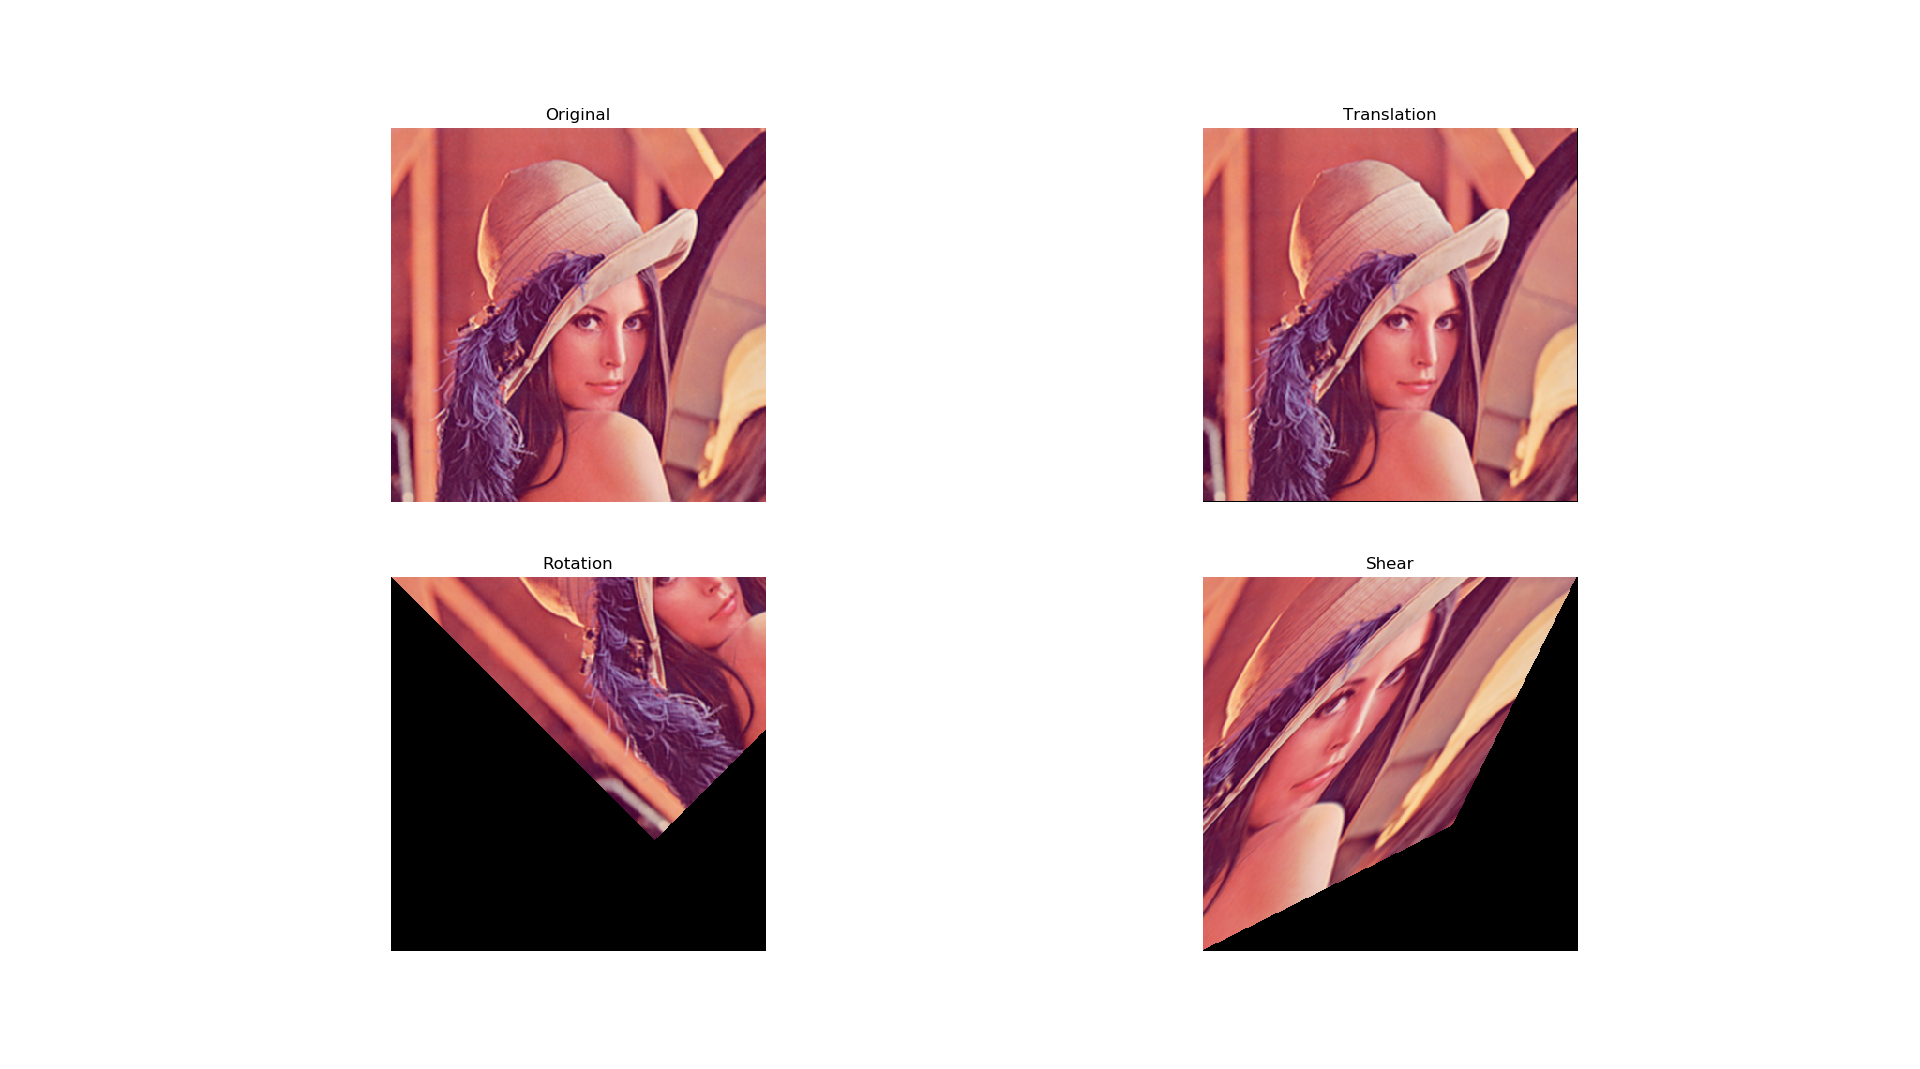
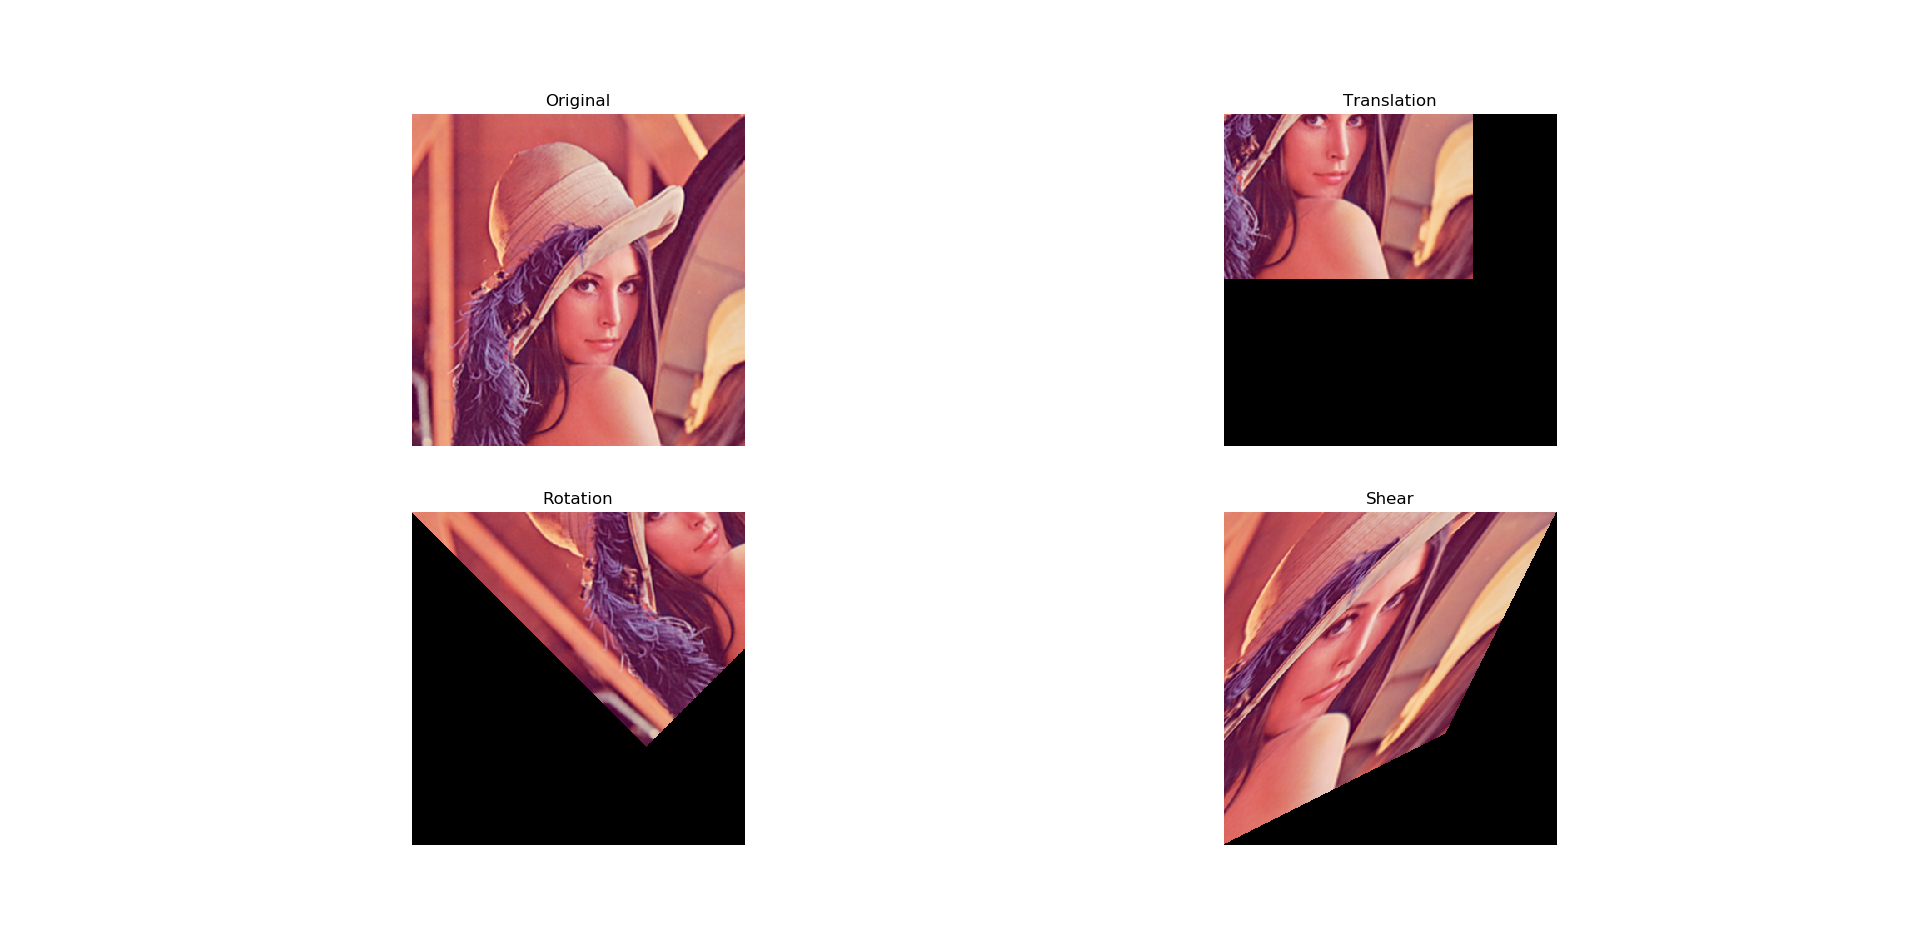
2d translation update

diff --git a/main.py b/main.py
@@ -323,7 +323,7 @@ def affine_transform(mode):
 
 		# change affine matrix values
 		# translation
-		M[0,:,:] = [[1.,0.,0.],[0.,1.,0.]]
+		M[0,:,:] = [[1.,0.,0.25],[0.,1.,0.5]]
 		img_translate = transform2D(input_img, M)
 
 		# rotation
@@ -434,7 +434,7 @@ def vector_transform(mode):
 	return
 
 def main():
-	MODE = '3D'
+	MODE = '2D'
 	METHOD = 'AFFINE'
 
 	if METHOD == 'AFFINE':
